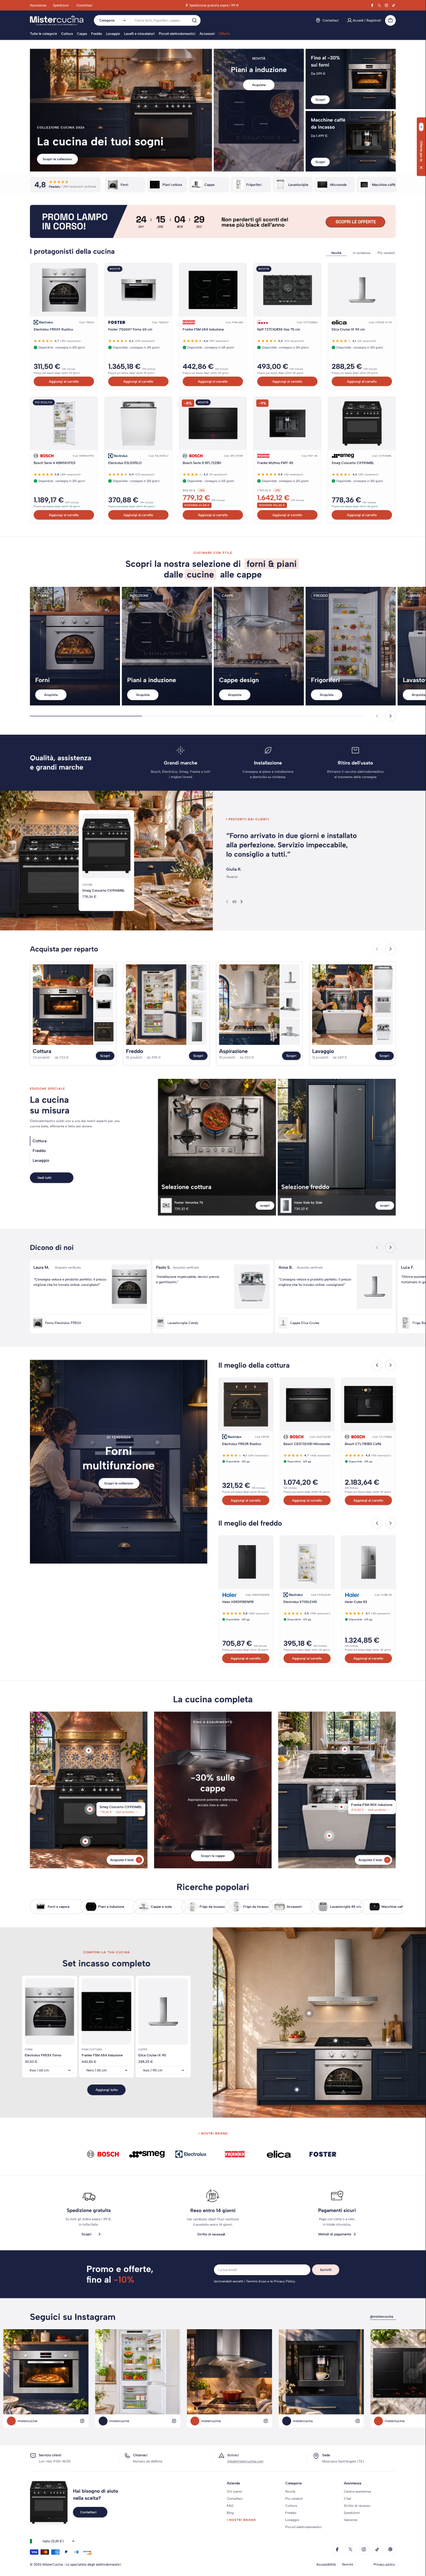
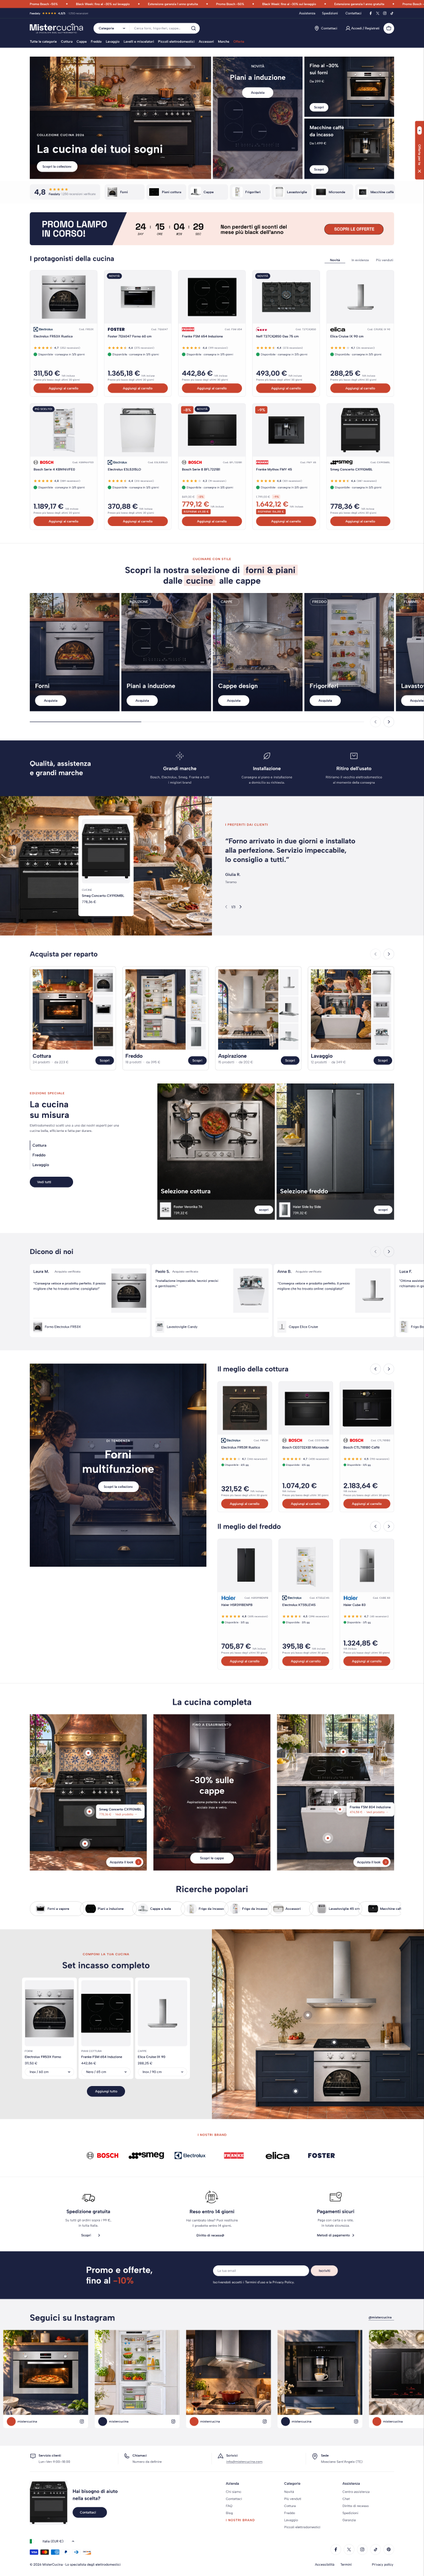
Header in three rows on all sites: promo marquee, pre-header with Feedaty widget, links and socials
Claude-Session: https://claude.ai/code/session_01DzDcr4Xa4AaqXv1Nbqd2T5

diff --git a/docs/figma/header.md b/docs/figma/header.md
@@ -1,0 +1,29 @@
+# Header in three rows (2026-11-17, all three sites)
+
+The header is now: **promo marquee** → **pre-header** → **header** (unchanged: logo, search, account, cart, menu).
+It was done in the components, so every desktop board and mobile screen shows it.
+
+| Row | Desktop (`Header / Barra annunci`, now 80 px = 36 + 44) | Mobile (`Mobile / Barra annunci`, now 63 px, vertical auto-layout) |
+|---|---|---|
+| Marquee (pre pre header) | Frame `Marquee promo (messaggi a scorrimento ←)` 1920×36: the messages repeated in a row, separated by ✦, clipped at the edges (in the theme the row scrolls right to left) | 390×30, same messages, 12 px |
+| Pre-header | Left: `Widget recensioni · Feedaty` (Feedaty, 5 stars, score/5, number of reviews). Right: the useful links (Assistenza / Spedizioni / Contattaci; Trovaincasso: Aiuto / Confronta / Contattaci) and the social icons. The old centre promo text is hidden | Centred Feedaty widget (links and socials stay in the menu) |
+| Header | `Header / Principale`, unchanged | `Mobile / Header`, unchanged |
+
+Messages (the same on all sites for now): "Promo Bosch -50%", "Black Week: fino al -30% sul lavaggio", "Estensione
+garanzia 1 anno gratuita". To change them, edit the texts in `Messaggi` inside the marquee of the two components (add
+or remove texts and ✦ separators freely; the row is auto-layout).
+
+| | Marquee | Pre-header | Feedaty |
+|---|---|---|---|
+| TamTam Price | red `price/sale`, white text | black (as before) | 4,8 · 1.250 (placeholder) |
+| MisterCucina | orange `brand/accent`, white text | navy `brand/primary` + thin divider above the navy header | 4,8 · 1.250 (placeholder) |
+| Trovaincasso | yellow `badge/sale`, dark green text | dark green (as before) | 4,9 · 2.087 |
+
+**Review widget rule:** show the platform with the higher score (Trustpilot or Feedaty). Only Feedaty data is known
+today, so the widget shows Feedaty; if Trustpilot scores higher, swap the name, score and count.
+
+Side effects handled: the desktop homepages (absolute layout) moved down 36 px (TamTam 10 357, MisterCucina 11 653,
+Trovaincasso 11 077 px); every other board and mobile screen uses auto-layout and adapted by itself; the `Overlay · Menu
+Marche` frames got a 36 px taller header strip.
+
+Renders: `docs/screenshots/after/<brand>-01-home.png`, `docs/screenshots/mobile/<brand>-m01-home.png`.

diff --git a/CLAUDE.md b/CLAUDE.md
@@ -69,6 +69,8 @@ Full-page renders: `docs/screenshots/after/*.png` (current) and `docs/screenshot
   brand-logo band under the hero and brand archive boards 02c / M02c (Samsung); the same band on Trovaincasso, Feedaty +
   category chips on MisterCucina; photo category banner on the archive pages (02, 02b, M02, M02b) of all three sites. Backups (copies named "BACKUP …
   17/11") and how to revert: [docs/figma/home-hero-round-2.md](docs/figma/home-hero-round-2.md).
+- **Header in three rows (2026-11-17, all sites):** promo marquee + pre-header (Feedaty widget, links, socials) +
+  header, built in the `Header / Barra annunci` and `Mobile / Barra annunci` components. See [docs/figma/header.md](docs/figma/header.md).
 - **Theme code (2026-11-13):** `shopify/invoice-request/` holds the cart "Richiedi fattura" block (Liquid snippet + JS +
   tests, `node --test shopify/invoice-request/tests/*.test.*`). It is the only code in the repo.
 - **Access and limits:** the file lives in the *Alessandro Molinari DWAY* team (Education plan). The connector is
